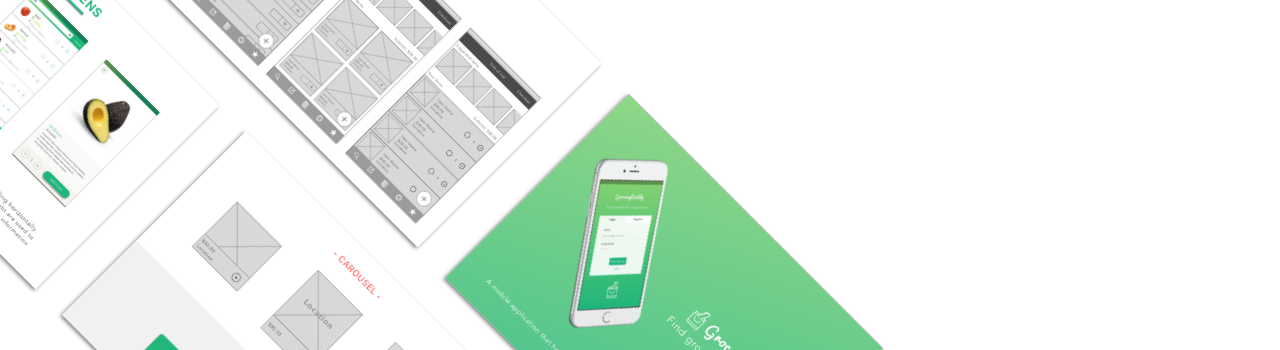
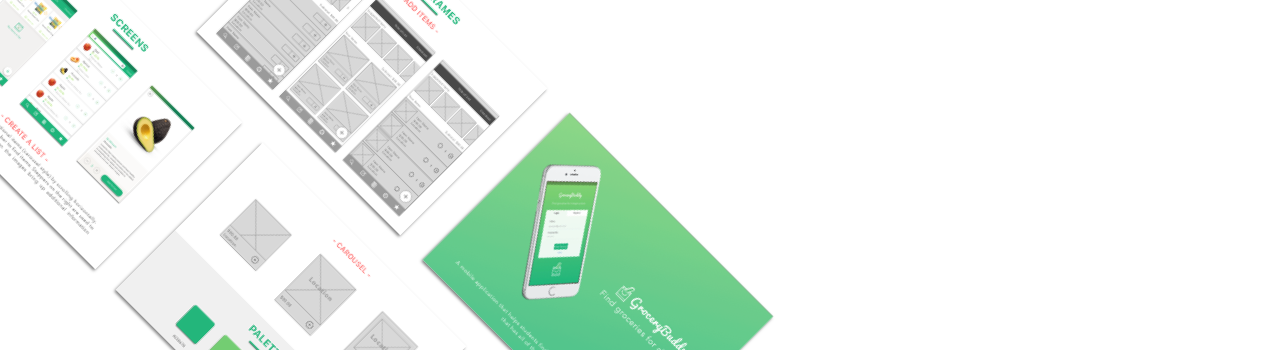
Revised background images

diff --git a/index.html b/index.html
@@ -36,13 +36,13 @@
         <img class="carol-yao" src="images/carol-yao.png" alt="carol in cartoon" />
       </div>
       <div class="about-me-description">
-        <h1 class="about">Hello. So here's my life story: </h1>
+        <h1 class="about">Hello. This is my life story: </h1>
         <p class="description">I started out in Biomedical Science with plans to pursue Optometry. I never really considered programming in high school, so I decided to try it out for fun by taking a functional programming course, attending my first hackathon and learning basic HTML and CSS from Team Treehouse. I thought I was passionate about Science but I was even more excited about programming! I decided to make the career switch and spent my free time learning as much as I could. I read blogs daily and followed up with tech news. Currently, I am enrolled in Bitmaker's Web Development Immersive course covering all of web and loving every single second of it! These past months have been one hell of a journey, but I'm glad I took the jump.</p>
       </div>
     </div>
 
     <div class="project" id="projects">
-      <div class="project-info">
+      <div class="project-info" id="groceryrunner-description">
       <h3 class="project-name">Grocery Runner</h3>
       <p class="date">JUNE 30 2016</p>
       <p class="project-description">
@@ -52,22 +52,22 @@
       <p class="tools"><strong>Tools</strong>: Paper &amp; Pen (Wireframes), Sketch (High Fi Mockups) <br>
       <a class="project-link" href ="https://www.behance.net/gallery/40263717/Grocery-Runner">(View designs on Behance)</a></p>
       </div>
-      <div class="project-image">
+      <!-- <div class="project-image">
         <img class="gb-img" src="images/gb-img.png" alt="project image">
-      </div>
+      </div> -->
     </div>
 
-    <div class="project-2">
-      <div class="project-image-2">
+    <div class="project-2" id="nteractions">
+      <!-- <div class="project-image-2" >
         <img src="http://media02.hongkiat.com/ww-flower-wallpapers/roundflower.jpg" alt="project image">
-      </div>
-      <div class="project-info-2">
+      </div> -->
+      <div class="project-info-2" id="nteractions-description">
       <h3 class="project-name-2">Nspire's Nteractions Blog Redesign</h3>
       <p class="date">JUNE 24 2016</p>
       <p class="project-description-2">
         I am currently a UI/UX Design Associate at Nspire and helping redesign their Nteractions blog. These are some low-fi wireframes for their blog that we plan to use for user testing.
       </p>
-        <p class="tools"><strong>Tools</strong>: Paper &amp; Pen (Planning), Sketch (Low Fi Wireframes)</p>
+        <p class="tools"><strong>Tools</strong>: Paper &amp; Pen (Planning), Sketch (Low Fi Wireframes)</p><br><br><br>
       </div>
     </div>
 
@@ -83,16 +83,17 @@
             <p class="tools"><strong>Tools</strong>: Ruby on Rails, Postgres, HTML, CSS <br>
             <a class="project-link" href ="https://github.com/kroyagis/seatyourself">(View repo on GitHub)</a></p>
           </div>
-          <!-- <div class="project-image">
-            <img class="seat-yourself" src="images/seatyourself.png" alt="project image">
-          </div> -->
+          <div class="project-image">
+            <img class="seat-yourself" src="images/sy-bg-2.png" alt="project image">
+          </div>
         </div>
 
-        <div class="project-2">
+        <div class="project-2" id="rainforest">
           <div class="project-image-2">
-            <img src="http://media02.hongkiat.com/ww-flower-wallpapers/roundflower.jpg" alt="project image">
+            <img class="rainforest-img" src="images/rf-bg-2.png" alt="project image">
           </div>
-          <div class="project-info-2" >
+          <div class="project-info-2" id="rainforest-description">
+
           <h3 class="project-name-2">Rainforest</h3>
           <p class="date">JUNE 17</p>
           <p class="project-description-2" >
@@ -101,6 +102,7 @@
           </p>
             <p class="tools"><strong>Tools</strong>: Ruby on Rails, Postgres, HTML, CSS , Sketch (Designs)<br>
             <a  class="project-link" href="https://github.com/carol-yao/rainforest">(View repo on GitHub)</a></p>
+
           </div>
         </div>
 

diff --git a/css/styles.css b/css/styles.css
@@ -128,10 +128,12 @@ a {
 .about-me-page {
   overflow: hidden;
   background-color: #F3F3F3;
+  padding: 80px 0;
 }
 .about {
   color: rgba(0, 0, 0, 0.87);
   font-size: 28px;
+  font-weight: lighter;
   margin: 8px 0;
 }
 
@@ -154,8 +156,7 @@ a {
 }
 .description {
   font-size: 14px;
-  line-height: 24px;
-  padding-left: 10px;
+  line-height: 28px;
 }
 
 /*project styles - image to the right*/
@@ -178,12 +179,12 @@ a {
 .project {
   margin-top: 3px;
   height: 350px;
-  background: #F3F3F3;
+  background: #FBFBFB;
 }
 
 .project-name {
   color: rgba(0, 0, 0, 0.87);
-  font-weight: light;
+  font-weight: lighter;
   overflow: hidden;
   font-size: 28px;
   margin: 0;
@@ -225,7 +226,7 @@ a {
 .project-name-2 {
   margin: 0;
   color: rgba(0, 0, 0, 0.87);
-  font-weight: light;
+  font-weight: lighter;
   overflow: hidden;
   font-size: 28px;
 }
@@ -293,24 +294,29 @@ a {
 
 /*project images */
 
-.crm, .seat-yourself {
+.crm, .seat-yourself, .rainforest-img {
   height: 308px;
   margin-top: 20px;
   margin-left: 55px;
 
 }
 
-#seatyourself {
-  background-image: url('../images/sy-bg.png');
-}
 
-#seatyourself-description {
-  background-color: rgba(255, 255, 255, 0.54);
-}
 
 #grocerybuddy {
   background-image: url('../images/gb-bg.png');
+
 }
 #grocerybuddy-description {
   background-color: rgba(255, 255, 255, 0.54);
+}
+
+
+#nteractions {
+  background-image: url('../images/n-bg.png');
+}
+
+
+#projects {
+  background-image: url('../images/gr-bg.png');
 }
